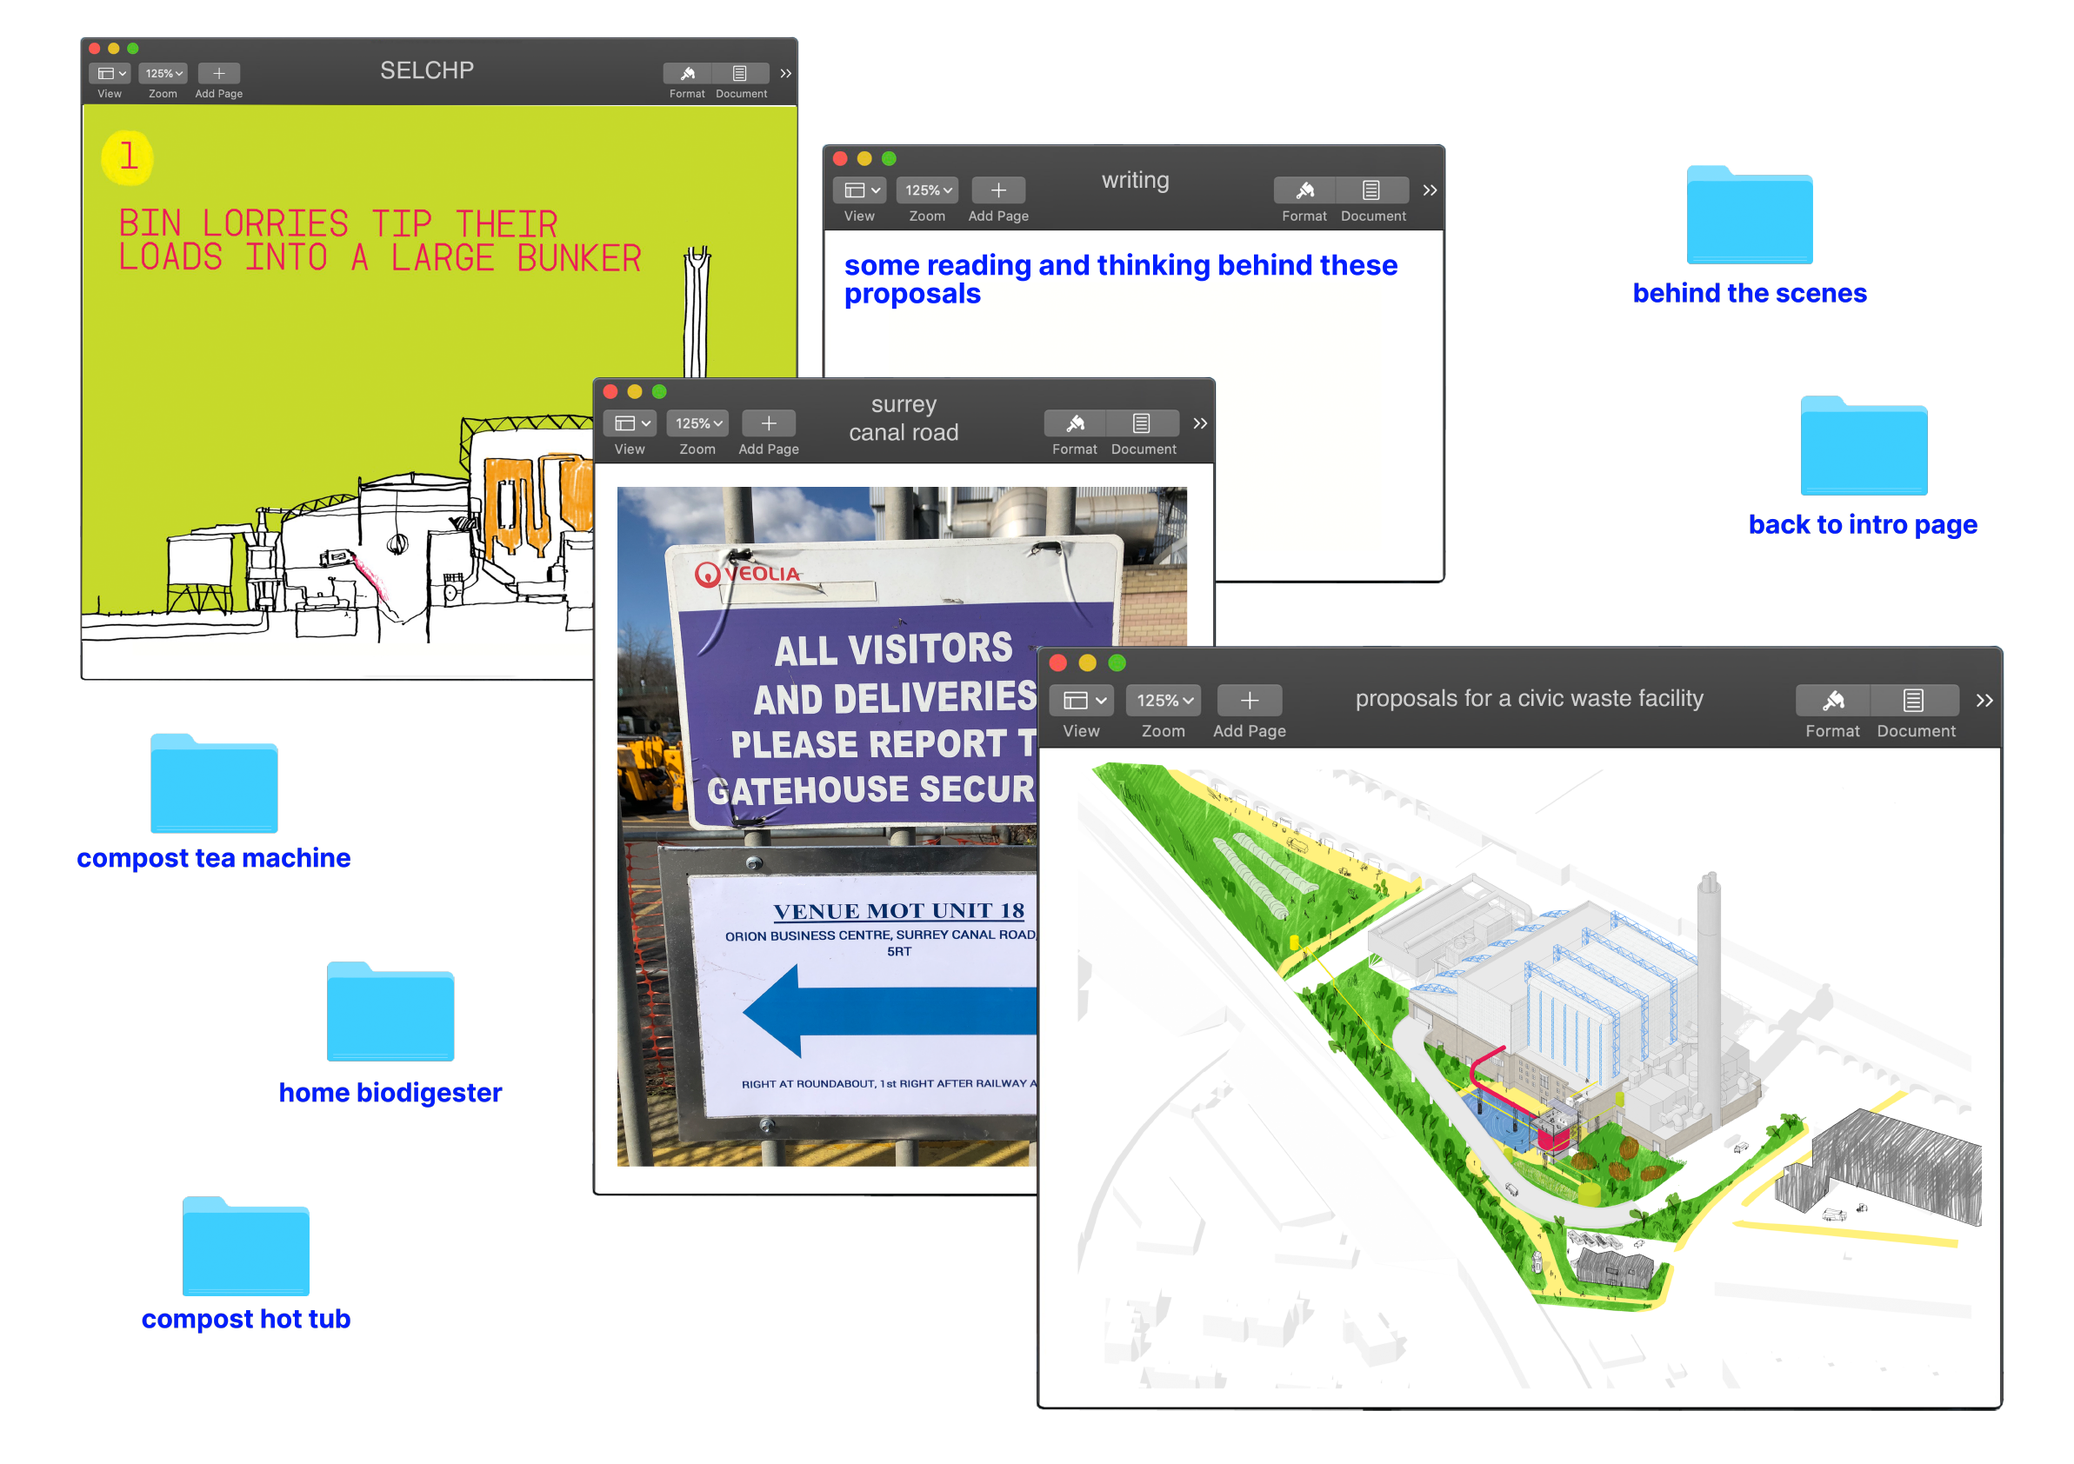
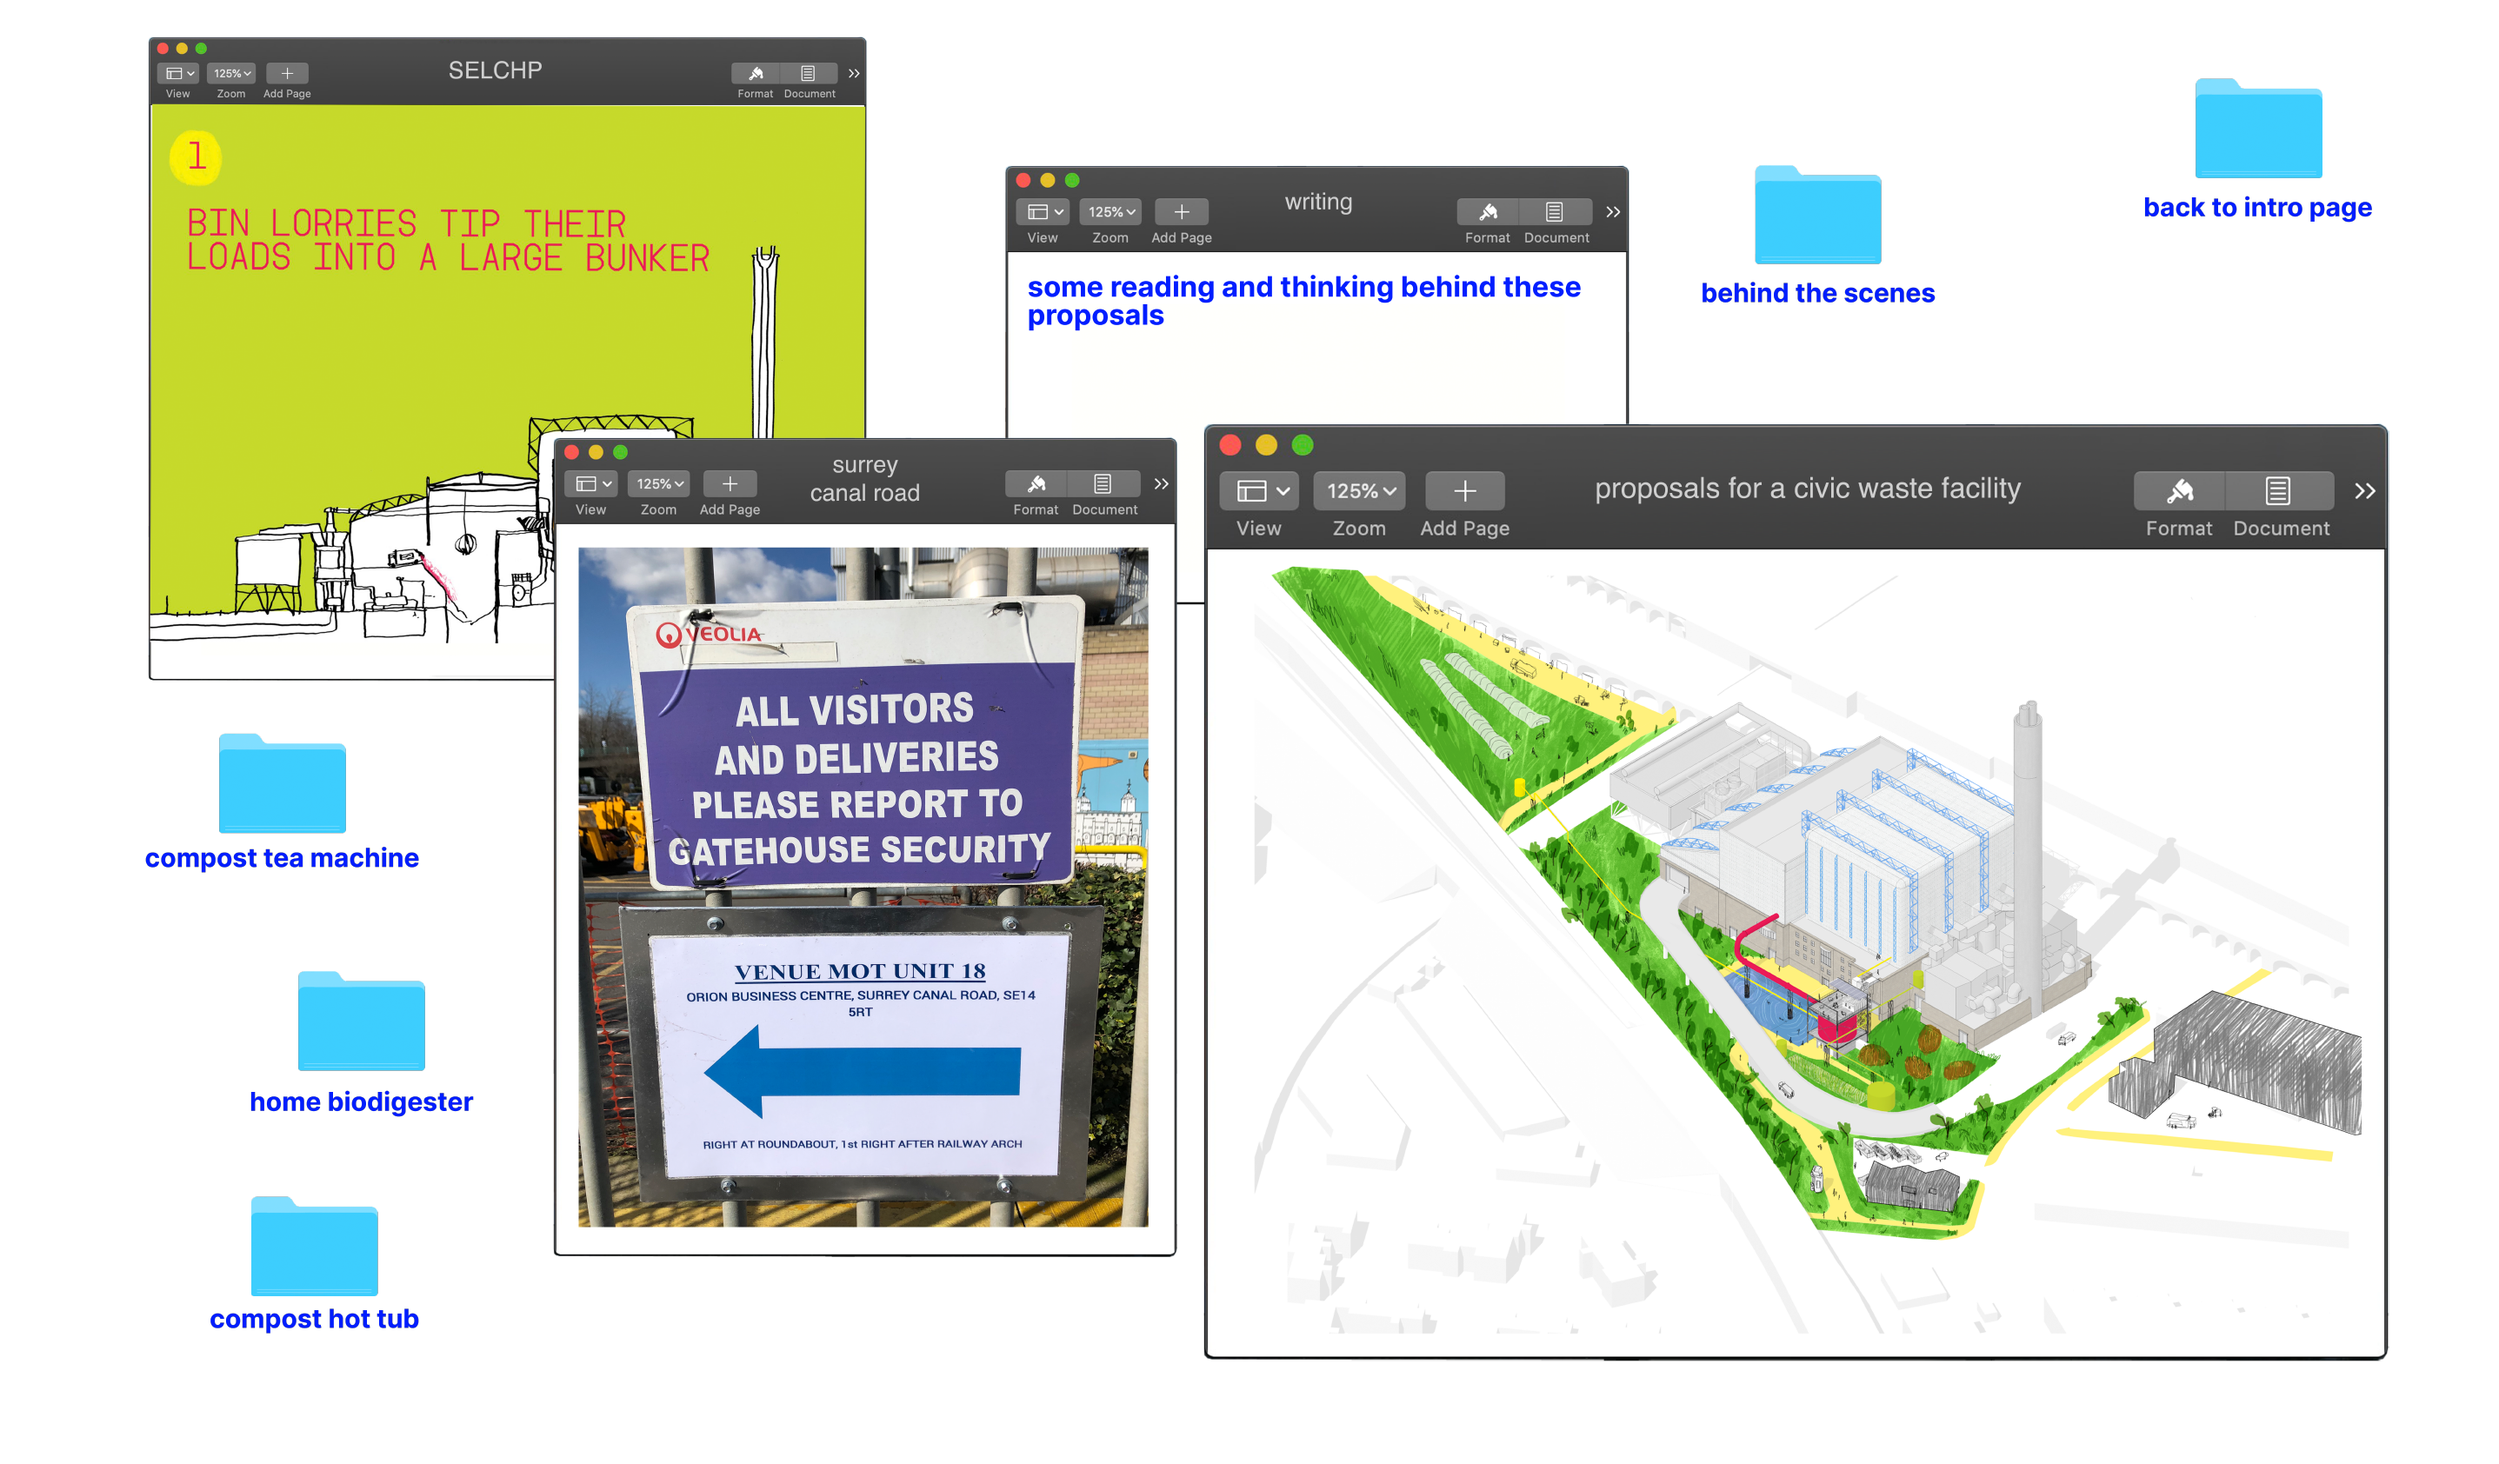
more images and page fixes for review

diff --git a/imagemap.html b/imagemap.html
@@ -24,21 +24,15 @@
     </div>
 
   
-    <div class="nowrapper">
-        <img src="img/civic waste/isohover.png" class="img-top" usemap="#image-map1" alt="civicwasteplant" width="100%" style="position:center">
+    <div class="bodyWithHeader2">
+        <img src="img/civic waste/iso with proposals for web-01.png" class="img-top" usemap="#image-map1" alt="civicwasteplant" width="85%" style="position:center">
         <map name="image-map1">
-            <area target="_parent" alt="AD txt" title="AD txt" href="proposal.html" coords="509,664,79,457" shape="rect">
-            <area target="_parent" alt="hub txt" title="hub txt" href="hub.html" coords="79,681,521,757" shape="rect">
-            <area target="_parent" alt="mrfs txt" title="mrfs txt" href="mrfs.html" coords="81,799,679,889" shape="rect">
-            <area target="_parent" alt="garden txt" title="garden txt" href="garden.html" coords="73,934,604,1014" shape="rect">
-            <area target="_parent" alt="industry txt" title="industry txt" href="industry.html" coords="75,1050,589,1130" shape="rect">
-            <area target="_parent" alt="DH txt" title="DH txt" href="districtheating.html" coords="75,1174,692,1269" shape="rect">
-            <area target="_parent" alt="AD" title="AD" href="proposal.html" coords="1052,826,1008,854,1137,1031,1200,1115,1238,1149,1301,1176,1364,1191,1425,1193,1482,1178,1596,1090,1461,1016,1430,978,1371,1007" shape="poly">
-            <area target="_parent" alt="hub" title="hub" href="hub.html" coords="1242,1250,1349,1267,1478,1248,1581,1284,1531,1418,1210,1381" shape="poly">
-            <area target="_parent" alt="mrfs" title="mrfs" href="mrfs.html" coords="2070,923,1916,1012,1914,1062,1861,1088,1840,1121,1798,1265,2382,1349,2376,1003" shape="poly">
-            <area target="_parent" alt="garden" title="garden" href="garden.html" coords="349,95,816,375,604,525,256,135" shape="poly">
-            <area target="_parent" alt="industry" title="industry" href="industry.html" coords="376,80,595,13,1023,223,831,350" shape="poly">
-            <area target="_parent" alt="DH" title="DH" href="districtheating.html" coords="393,1440,380,1471,378,1539,580,1570,614,1507,627,1456,606,1410,538,1404,534,1452" shape="poly">
+            <area target="_parent" alt="AD" title="AD" href="proposal.html" coords="1322,860,1229,902,1409,1128,1479,1188,1605,1233,1730,1225,1905,1115,1687,990,1597,1012" shape="poly">
+            <area target="_parent" alt="hub" title="hub" href="hub.html" coords="1565,1336,1575,1491,1685,1529,1853,1521,1895,1371" shape="poly">
+            <area target="_parent" alt="mrfs" title="mrfs" href="mrfs.html" coords="2466,947,2319,1050,2211,1173,2223,1283,2825,1376,2827,1055" shape="poly">
+            <area target="_parent" alt="garden" title="garden" href="garden.html" coords="507,23,1001,273,655,514,259,73" shape="poly">
+            <area target="_parent" alt="industry" title="industry" href="industry.html" coords="735,0,1174,148,1003,261,527,15,698,8" shape="poly">
+            <area target="_parent" alt="DH" title="DH" href="districtheating.html" coords="690,1504,605,1491,440,1539,432,1656,685,1674,725,1619" shape="poly">
         </map>
 
     </div>

diff --git a/civicwasteintro.html b/civicwasteintro.html
@@ -26,15 +26,15 @@
     <div class="bodyWithHeader">
         <img src="img/civic waste/civic waste homepage-01.png" usemap="#image-map" alt="civicwasteplant" width="80%" style="position:center">
         <map name="image-map">
-            <area target="_parent" alt="PROPOSAL" title="PROPOSAL" href="imagemap.html" coords="1200,748,2302,748,2295,1612,1194,1614" shape="poly">
-            <area target="_parent" alt="SURREY CANAL ROAD" title="SURREY CANAL ROAD" href="surreycanalroad.html" coords="680,434,1396,432,1396,734,1177,736,1175,1368,682,1374" shape="poly">
-            <area target="_parent" alt="SELCHP" title="SELCHP" href="selchp.html" coords="98,42,913,46,915,422,673,424,665,778,87,780" shape="poly">
-            <area target="_parent" alt="WRITING" title="WRITING" href="writing.html" coords="953,167,1657,164,1665,668,1411,672,1406,424,943,422" shape="poly">
-            <area target="_parent" alt="BEHIND THE SCENES" title="BEHIND THE SCENES" href="behindthescenes.html" coords="1878,177,2159,348" shape="rect">
-            <area target="_parent" alt="BACK TO INTRO" title="BACK TO INTRO" href="civicwaste.html" coords="2011,426,2281,620" shape="rect">
-            <area target="_blank" alt="COMPOST TEA MACHINE" title="COMPOST TEA MACHINE" href="https://sara-lohse.com/compost-powered-tea-maker" coords="403,999,68,841" shape="rect">
-            <area target="_parent" alt="COMPOST HOT TUB" title="COMPOST HOT TUB" href="hottub.html" coords="159,1368,414,1536" shape="rect">
-            <area target="_parent" alt="HOME BIODIGESTER" title="HOME BIODIGESTER" href="home biodigester.html" coords="298,1096,580,1277" shape="rect">
+            <area target="_parent" alt="PROPOSAL" title="PROPOSAL" href="imagemap.html" coords="1398,500,2741,1560" shape="rect">
+            <area target="_parent" alt="SURREY CANAL ROAD" title="SURREY CANAL ROAD" href="surreycanalroad.html" coords="636,503,1352,1440" shape="rect">
+            <area target="_parent" alt="SELCHP" title="SELCHP" href="selchp.html" coords="184,51,997,43,989,488,608,493,613,780,171,782" shape="poly">
+            <area target="_parent" alt="WRITING" title="WRITING" href="writing.html" coords="1169,190,1875,480" shape="rect">
+            <area target="_parent" alt="BEHIND THE SCENES" title="BEHIND THE SCENES" href="behindthescenes.html" coords="1956,165,2243,361" shape="rect">
+            <area target="_parent" alt="BACK TO INTRO" title="BACK TO INTRO" href="civicwaste.html" coords="2459,69,2748,259" shape="rect">
+            <area target="_blank" alt="COMPOST TEA MACHINE" title="COMPOST TEA MACHINE" href="https://sara-lohse.com/compost-powered-tea-maker" coords="143,825,491,1006" shape="rect">
+            <area target="_parent" alt="COMPOST HOT TUB" title="COMPOST HOT TUB" href="hottub.html" coords="212,1367,494,1537" shape="rect">
+            <area target="_parent" alt="HOME BIODIGESTER" title="HOME BIODIGESTER" href="home biodigester.html" coords="275,1102,555,1275" shape="rect">
         </map>
         
     </div>

diff --git a/surreycanalroad.html b/surreycanalroad.html
@@ -43,6 +43,25 @@
 
     <div class="loader"></div>
 
+    <div class="bodyWithHeader">
+      <img id="example" onclick="changeImage()" src="img/surrey canal road photos/zoomed.png" alt="around surrey canal road" style="width:100%;">
+      <p> <br> The area around Surrey Canal Road and the revelopments looming over it (click me).
+    </p> 
+    </div> 
+
+    <script type="text/javascript">
+      function changeImage() {
+        element=document.getElementById('example')
+
+        if (element.src.match("zoomed_development")) {
+          element.src="img/surrey canal road photos/zoomed.png";
+        } else {
+          element.src="img/surrey canal road photos/zoomed_development.png";
+        }
+      }
+   </script>
+
+
     <div class="bodyTIGHT">
         <img src="img/SCR-text.png" alt="SurreyCanalRoad" style="width:743px;height:1010px;">
       </div>

diff --git a/selchp.html b/selchp.html
@@ -32,6 +32,18 @@
       <img src="img/civic waste/selchp nice pic.jpeg" alt="networks of waste" style="width:100%;" style="position:center">
     </div>
 
+    <div class="bodyTIGHT">
+      <img src="img/SELCHP text 844px.png" alt="SELCHP text">
+    </div>
+
+    <div class="bodyWithHeader">
+      <img src="img/selchp 2.jpeg" alt="networks of waste" style="width:100%;" style="position:center">
+    </div>
+
+
+    <div class="bodyWithHeader">
+      <img src="img/civic waste/SELCHP-section-animation.gif" alt="SELCHP processes" style="width:70%;" style="position:center">
+    </div>
 
 
     <div class="bodyWithHeader"; class="center">

diff --git a/style.css b/style.css
@@ -179,6 +179,18 @@ p2 {
   display: flex;
   justify-content: center;
   margin-top: 70px;
+  margin-bottom: 500px;
+  min-height: 100%;
+  align-items: center;
+  flex-direction: column;
+}
+
+.bodyWithHeader2 {
+  width: 100%;
+  display: flex;
+  justify-content: center;
+  margin-top: 0px;
+  margin-bottom: 500px;
   min-height: 100%;
   align-items: center;
   flex-direction: column;
@@ -190,7 +202,8 @@ p2 {
   justify-content: center;
   text-align: justify;
   margin: 300px;
-  margin-top: 40px;
+  margin-top: 60px;
+  margin-bottom: 500px;
   min-height: 100%;
   align-items: center;
   flex-direction: column;

diff --git a/bio.html b/bio.html
@@ -24,7 +24,7 @@
 
 
     <div class="bodyTIGHT">
-      <img src="img/about text smaller.png" usemap="#image-map" alt="about">
+      <img src="img/about text smaller.png" usemap="#image-map" alt="about" >
       
       <map name="image-map">
         <area target="_blank" alt="public works" title="public works" href="https://www.publicworksgroup.net/" coords="282,386,401,403" shape="rect">
